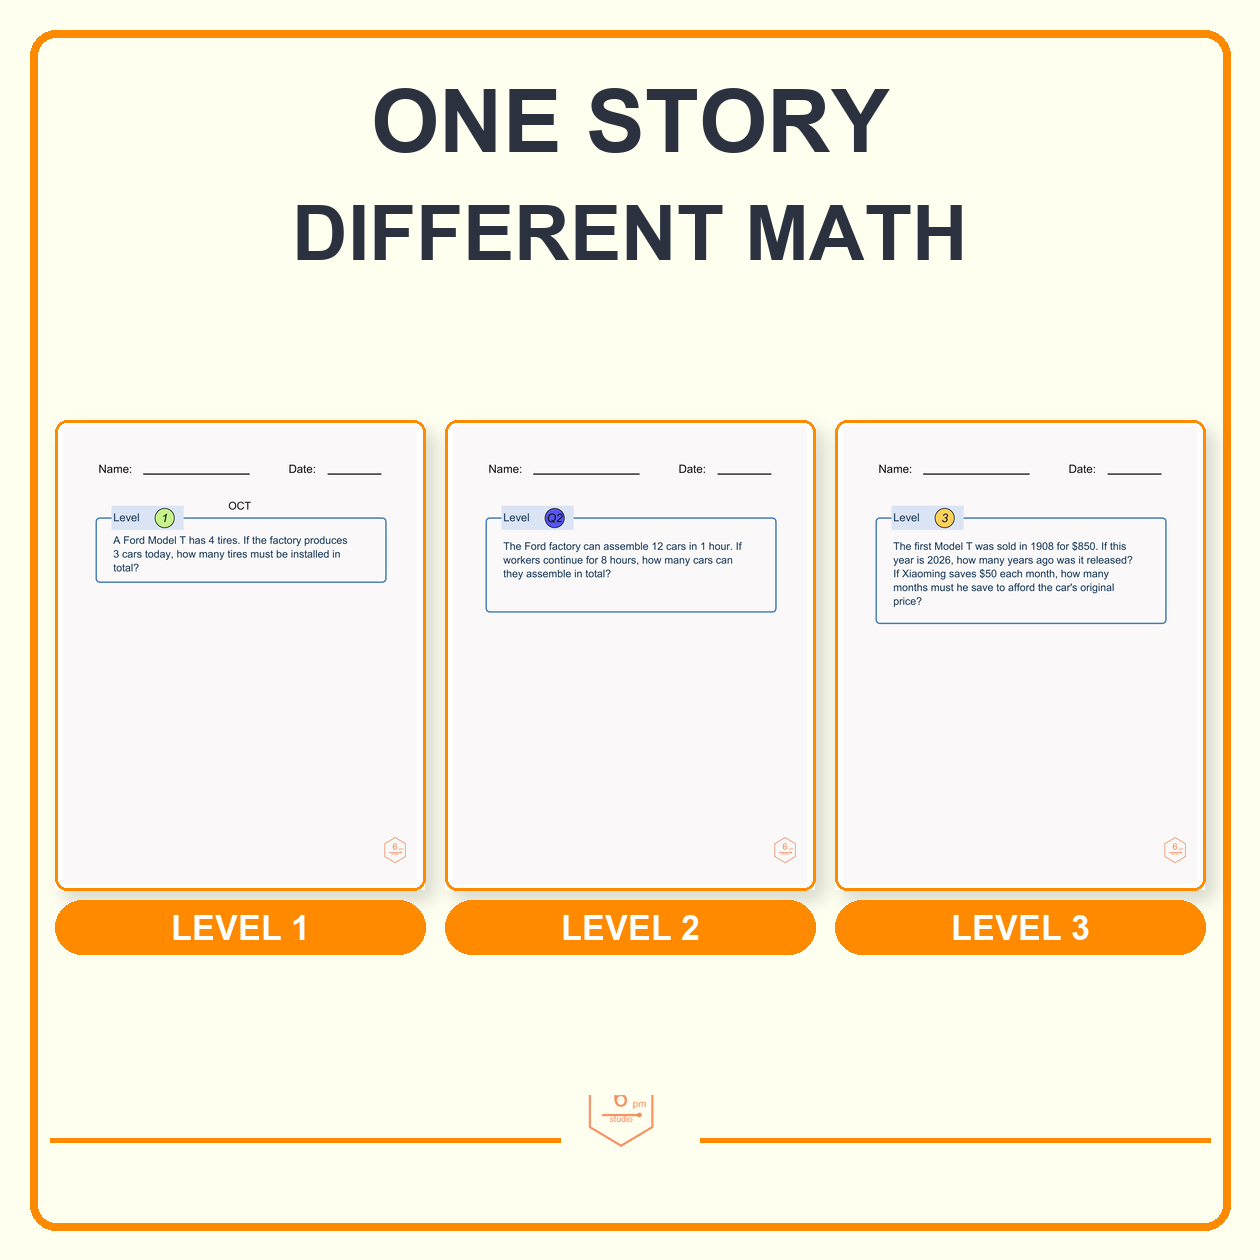
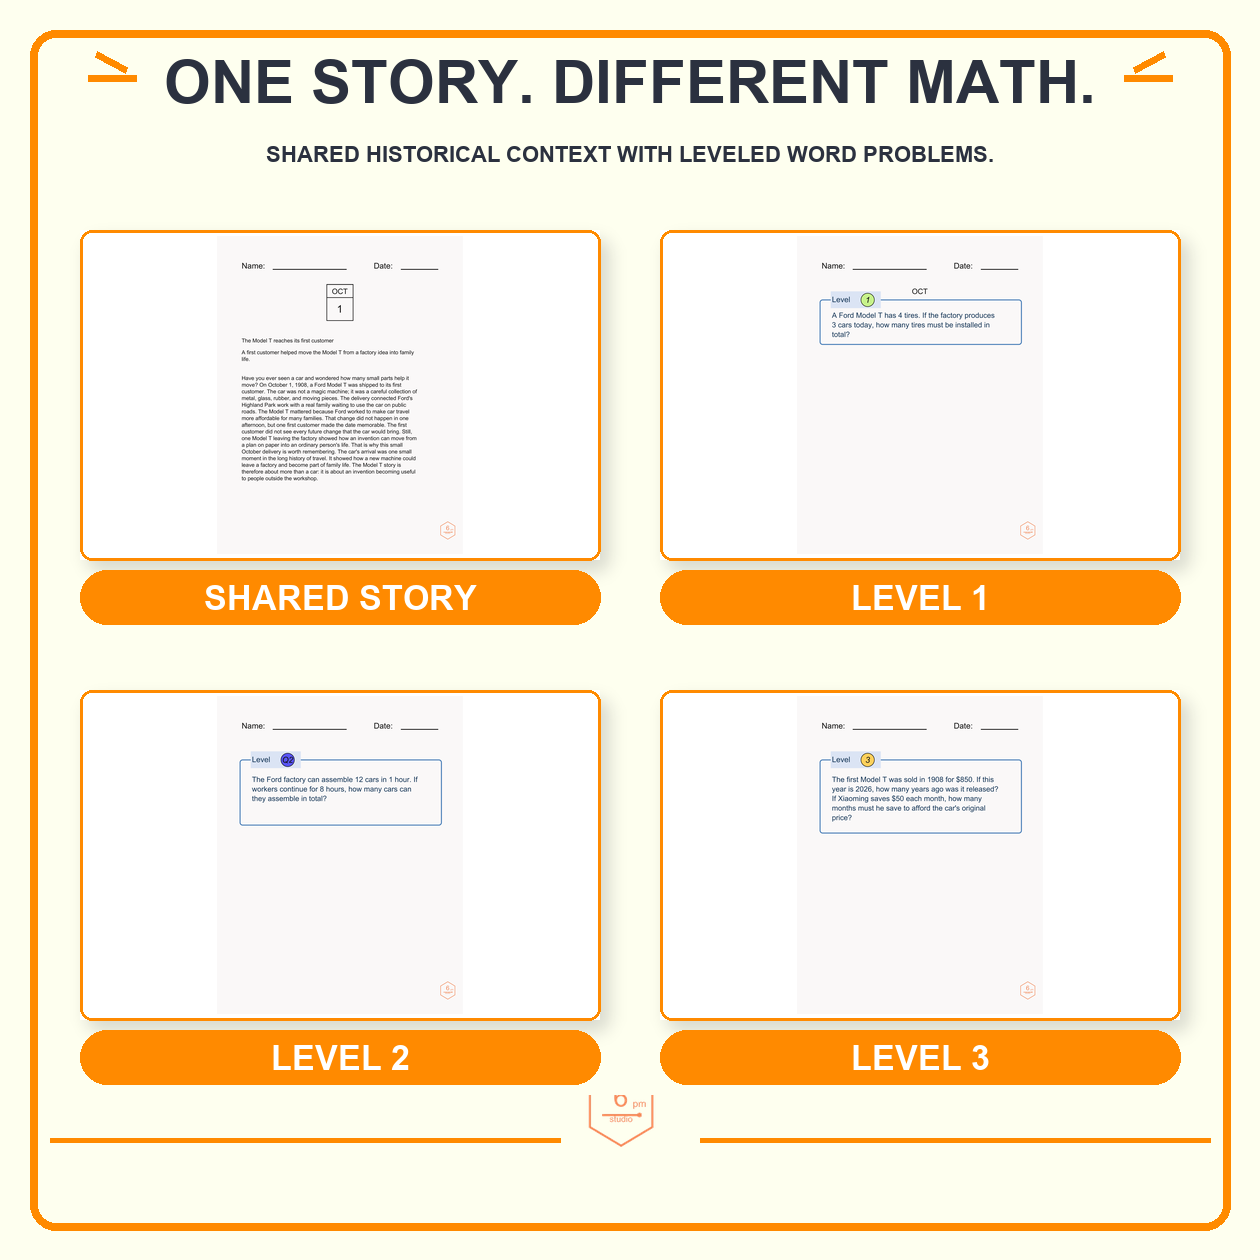
Align thumbnails with four approved copy concepts

diff --git a/scripts/generate_monthly_thumbnails.py b/scripts/generate_monthly_thumbnails.py
@@ -1,5 +1,5 @@
 #!/usr/bin/env python3
-"""Generate the five reusable, real-page monthly thumbnail compositions."""
+"""Generate the four requested, real-page monthly thumbnail compositions."""
 
 import argparse
 import hashlib
@@ -40,19 +40,6 @@ def base_canvas():
     canvas = Image.new("RGBA", (SIZE, SIZE), BG)
     ImageDraw.Draw(canvas).rounded_rectangle((30, 30, 1230, 1230), 26, outline=ORANGE, width=8)
     return canvas
-
-
-def doodle(draw, center=(630, 560), scale=1.0):
-    """Draw the three-lobed pumpkin used by the October production assets."""
-    cx, cy = center
-    w = int(7 * scale)
-    lobes = [(-68, -2, 72, 128), (-27, -38, 74, 136), (18, -2, 72, 128)]
-    for left, top, right, bottom in lobes:
-        draw.ellipse((cx + left * scale, cy + top * scale, cx + right * scale, cy + bottom * scale), outline=ORANGE, width=w)
-    draw.line((cx, cy + 110 * scale, cx - 4 * scale, cy + 166 * scale), fill=ORANGE, width=w)
-    draw.line((cx - 4 * scale, cy + 166 * scale, cx - 66 * scale, cy + 166 * scale), fill=ORANGE, width=w)
-    draw.line((cx + 2 * scale, cy - 38 * scale, cx + 20 * scale, cy - 93 * scale), fill=ORANGE, width=w)
-    draw.line((cx + 20 * scale, cy - 93 * scale, cx + 68 * scale, cy - 69 * scale), fill=ORANGE, width=w)
 
 
 def accented_title(draw, text, y, size, max_width=1080):
@@ -119,28 +106,12 @@ def logo(canvas, page):
 
 
 def compose_cover(month, out, source_page):
-    canvas, draw = base_canvas(), ImageDraw.Draw(base_canvas())
-    draw = ImageDraw.Draw(canvas)
-    centered(draw, month.upper(), 96, 86)
-    centered(draw, "MORNING WORK MATH", 218, 55)
-    centered(draw, "31 DAILY WORD PROBLEMS", 330, 35)
-    doodle(draw, (630, 565), 1.10)
-    centered(draw, "3 LEVELS", 905, 42)
-    footer(canvas)
-    if source_page:
-        logo(canvas, source_page)
-    canvas.convert("RGB").save(out, "PNG", optimize=True)
-
-
-def compose_overview(month, out, source_page):
     canvas = base_canvas()
     draw = ImageDraw.Draw(canvas)
-    centered(draw, month.upper(), 92, 86)
-    centered(draw, "MORNING WORK MATH", 218, 55)
-    centered(draw, "DAILY WORD PROBLEMS", 330, 35)
-    centered(draw, "HISTORICAL MINI-STORIES", 384, 35)
-    doodle(draw, (630, 600), 1.10)
-    centered(draw, "3 LEVELS", 920, 42)
+    draw.text((92, 126), month.upper(), fill=NAVY, font=font(92))
+    draw.text((92, 252), "MORNING\nWORK MATH", fill=NAVY, font=font(64), spacing=4)
+    draw.text((92, 470), "31 DAILY WORD\nPROBLEMS · 3 LEVELS", fill=NAVY, font=font(36), spacing=8)
+    card(canvas, source_page, (690, 142, 430, 690), "REAL WORKSHEET PREVIEW")
     footer(canvas)
     if source_page:
         logo(canvas, source_page)
@@ -150,39 +121,41 @@ def compose_overview(month, out, source_page):
 def compose_whats_included(pages, out):
     canvas = base_canvas()
     draw = ImageDraw.Draw(canvas)
-    accented_title(draw, "WHAT'S INCLUDED", 40, 82, 920)
-    for points in [((184, 42), (210, 62)), ((176, 78), (208, 78)), ((184, 114), (210, 94)), ((1076, 42), (1050, 62)), ((1084, 78), (1052, 78)), ((1076, 114), (1050, 94))]:
-        draw.line(points, fill=ORANGE, width=10)
-    for x, key, label in [(31, "story", "STORY"), (437, "level1", "LEVEL 1"), (843, "level2", "LEVEL 2")]:
-        card(canvas, pages[key], (x, 134, 380, 440), label)
-    for x, key, label in [(196, "level3", "LEVEL 3"), (646, "answer_key", "ANSWER KEY")]:
-        card(canvas, pages[key], (x, 632, 380, 380), label)
+    accented_title(draw, "ONE PACKET. THREE LEVELS.", 40, 62, 1120)
+    centered(draw, "LEVEL 1 · LEVEL 2 · LEVEL 3", 132, 28)
+    centered(draw, "SEPARATE ANSWER KEYS", 170, 28)
+    for x, key, label in [(31, "level1", "LEVEL 1"), (437, "level2", "LEVEL 2"), (843, "level3", "LEVEL 3")]:
+        card(canvas, pages[key], (x, 230, 380, 470), label)
+    card(canvas, pages["answer_key"], (440, 830, 380, 170), "SEPARATE ANSWER KEYS")
     footer(canvas)
-    logo(canvas, pages["story"])
+    logo(canvas, pages["level1"])
     canvas.convert("RGB").save(out, "PNG", optimize=True)
 
 
 def compose_different_math(pages, out):
     canvas = base_canvas()
     draw = ImageDraw.Draw(canvas)
-    centered(draw, "ONE STORY", 72, 88)
-    centered(draw, "DIFFERENT MATH", 190, 77)
-    card(canvas, pages["level1"], (55, 420, 370, 470), "LEVEL 1")
-    card(canvas, pages["level2"], (445, 420, 370, 470), "LEVEL 2")
-    card(canvas, pages["level3"], (835, 420, 370, 470), "LEVEL 3")
+    accented_title(draw, "ONE STORY. DIFFERENT MATH.", 48, 60, 1120)
+    centered(draw, "SHARED HISTORICAL CONTEXT WITH LEVELED WORD PROBLEMS.", 142, 22, 1100)
+    for box, key, label in [
+        ((80, 230, 520, 330), "story", "SHARED STORY"),
+        ((660, 230, 520, 330), "level1", "LEVEL 1"),
+        ((80, 690, 520, 330), "level2", "LEVEL 2"),
+        ((660, 690, 520, 330), "level3", "LEVEL 3"),
+    ]:
+        card(canvas, pages[key], box, label)
     footer(canvas)
-    logo(canvas, pages["level1"])
+    logo(canvas, pages["story"])
     canvas.convert("RGB").save(out, "PNG", optimize=True)
 
 
 def compose_daily_practice(pages, out):
     canvas = base_canvas()
     draw = ImageDraw.Draw(canvas)
-    accented_title(draw, "READY FOR DAILY PRACTICE", 55, 64, 1080)
-    centered(draw, "ONE PROBLEM A DAY", 190, 44)
+    accented_title(draw, "READY FOR DAILY PRACTICE", 55, 62, 1080)
+    centered(draw, "MORNING WORK · BELL RINGERS · HOMEWORK · HOMESCHOOL", 190, 24, 1130)
     card(canvas, pages["worksheet"], (280, 320, 700, 650), "DAILY WORD PROBLEM")
     footer(canvas)
-    centered(draw, "MORNING WORK  |  BELL RINGERS  |  HOMESCHOOL", 1048, 24, 1110)
     logo(canvas, pages["worksheet"])
     canvas.convert("RGB").save(out, "PNG", optimize=True)
 
@@ -199,11 +172,6 @@ def main():
         pdf = (Path.cwd() / pdf).resolve()
         if not pdf.exists():
             pdf = (manifest_path.parent / manifest["pdf"]["path"]).resolve()
-    doodle_path = Path(manifest["doodle"]["path"])
-    if not doodle_path.is_absolute():
-        doodle_path = (Path.cwd() / doodle_path).resolve()
-    if not doodle_path.exists():
-        raise FileNotFoundError(f"doodle asset does not exist: {doodle_path}")
     actual_pdf_sha256 = hashlib.sha256(pdf.read_bytes()).hexdigest()
     expected_pdf_sha256 = manifest["pdf"]["sha256"]
     if actual_pdf_sha256 != expected_pdf_sha256:
@@ -223,19 +191,19 @@ def main():
         daily = {key: render_page(page) for key, page in pages["daily_practice"]["source_pages"].items()}
         first = whats["story"]
         compose_cover(manifest["product"]["month"], args.output_dir / f"{prefix}-cover.png", first)
-        compose_overview(manifest["product"]["month"], args.output_dir / f"{prefix}-overview.png", first)
         compose_whats_included(whats, args.output_dir / f"{prefix}-whats-included.png")
         compose_different_math(different, args.output_dir / f"{prefix}-different-math.png")
         compose_daily_practice(daily, args.output_dir / f"{prefix}-daily-practice.png")
-    names = ["cover", "overview", "whats-included", "different-math", "daily-practice"]
+    names = ["cover", "whats-included", "different-math", "daily-practice"]
     labels = {
-        "whats_included": ["WHAT'S INCLUDED", "STORY", "LEVEL 1", "LEVEL 2", "LEVEL 3", "ANSWER KEY"],
-        "different_math": ["ONE STORY", "DIFFERENT MATH", "LEVEL 1", "LEVEL 2", "LEVEL 3"],
-        "daily_practice": ["READY FOR DAILY PRACTICE", "ONE PROBLEM A DAY"],
+        "cover": ["October Morning Work Math", "31 Daily Word Problems · 3 Levels", "REAL WORKSHEET PREVIEW"],
+        "whats_included": ["One Packet. Three Levels.", "Level 1 · Level 2 · Level 3", "Separate Answer Keys"],
+        "different_math": ["One Story. Different Math.", "Shared historical context with leveled word problems.", "SHARED STORY", "LEVEL 1", "LEVEL 2", "LEVEL 3"],
+        "daily_practice": ["Ready for Daily Practice", "Morning Work · Bell Ringers · Homework · Homeschool", "DAILY WORD PROBLEM"],
     }
     checksums = {name: hashlib.sha256((args.output_dir / f"{prefix}-{name}.png").read_bytes()).hexdigest() for name in names}
     report = {
-        "design": "october-production-v1",
+        "design": "october-production-v2",
         "style": {
             "canvas": [SIZE, SIZE],
             "background": BG,
@@ -247,9 +215,14 @@ def main():
         "templates": names,
         "labels": labels,
         "checksums": checksums,
-        "doodle": manifest["doodle"]["path"],
         "pdf": manifest["pdf"]["path"],
         "pdf_sha256": actual_pdf_sha256,
+        "copyConcepts": {
+            "cover": {"headline": "October Morning Work Math", "supportingText": "31 Daily Word Problems · 3 Levels"},
+            "whats_included": {"headline": "One Packet. Three Levels.", "supportingText": ["Level 1 · Level 2 · Level 3", "Separate Answer Keys"]},
+            "different_math": {"headline": "One Story. Different Math.", "supportingText": "Shared historical context with leveled word problems."},
+            "daily_practice": {"headline": "Ready for Daily Practice", "supportingText": "Morning Work · Bell Ringers · Homework · Homeschool"},
+        },
     }
     (args.output_dir / "monthly-thumbnail-report.json").write_text(json.dumps(report, indent=2) + "\n", encoding="utf-8")
 

diff --git a/docs/superpowers/specs/2026-09-20-monthly-thumbnail-system-design.md b/docs/superpowers/specs/2026-09-20-monthly-thumbnail-system-design.md
@@ -7,30 +7,29 @@
 ## Goal
 
 Create one reusable visual system for monthly worksheet products so that each
-month can produce the same five cover/thumbnail types while changing only the
-month-specific content, real PDF source pages, and representative hand-drawn
-doodle.
+month can produce the same four cover/thumbnail types while changing only the
+month-specific content and real PDF source pages.
 
 ## Evidence and design constraints
 
 This design is based on the approved reference outputs and corrections in the
 task history:
 
-- The five approved creative roles are Cover, Monthly Overview, What's
-  Included, One Story Different Math, and Ready for Daily Practice.
+- The four approved creative roles are Cover, What's Included, One Story
+  Different Math, and Ready for Daily Practice.
 - The user rejected generated or fake worksheet screenshots. Every worksheet
   visual must be rendered from the month's final PDF.
-- The user approved a consistent visual system across months, with a different
-  hand-drawn doodle representing each month.
+- The user approved a consistent visual system across months, with real PDF
+  page previews providing product proof instead of synthetic worksheet art.
 - The approved visual language uses a warm cream background, deep navy type,
-  orange framing and labels, simple line doodles, generous whitespace, and the
+  orange framing and labels, simple title rays, generous whitespace, and the
   6pm Studio logo.
 - October's verified packet has 127 pages: 124 daily worksheet pages followed
   by 3 answer-key pages.
 
 ## Fixed visual system
 
-The following properties are shared by all five thumbnail types:
+The following properties are shared by all four thumbnail types:
 
 - Canvas: square 1260 × 1260 PNG.
 - Background: `#FEFFEF`.
@@ -40,49 +39,40 @@ The following properties are shared by all five thumbnail types:
 - Typography: bold, condensed-looking uppercase display treatment for the
   main headline; compact uppercase labels for page types.
 - Logo: the approved 6pm Studio logo, centered in the footer treatment.
-- Decoration: simple orange line doodles only; no unrelated illustrations,
-  stock imagery, or AI-generated worksheet content.
+- Decoration: simple orange title rays only; no unrelated illustrations, stock
+  imagery, or AI-generated worksheet content.
 - Product proof: every worksheet card is a real rendered page from the
   month's final PDF.
 
-## Five fixed templates
+## Four fixed templates
 
 ### 1. Cover
 
-Communicates the month and product identity. It uses the month name, product
-title, short supporting copy, one centered month doodle, and the shared footer.
-It does not need to show worksheet screenshots.
+Communicates the month and product identity. It uses the exact headline
+`October Morning Work Math`, the supporting copy `31 Daily Word Problems · 3
+Levels`, and a clean worksheet-page preview rendered from the final PDF.
 
-### 2. Monthly Overview
+### 2. What's Included
 
-Communicates the monthly structure and routine. It uses the month name,
-calendar or day-count language, the centered month doodle, and concise
-benefit copy. It may use simple symbols, but not invented worksheet pages.
+Uses the approved copy and real-page composition:
 
-### 3. What's Included
-
-Uses the approved five-card composition:
-
-- top row: Reading Passage, Level 1, Level 2;
-- bottom row: Level 3, Answer Key;
-- orange capsule labels under each card;
-- `WHAT'S INCLUDED` headline and simple orange side doodles.
+- headline: `One Packet. Three Levels.`;
+- supporting text: `Level 1 · Level 2 · Level 3` and `Separate Answer Keys`;
+- real Level 1, Level 2, Level 3, and Answer Key previews.
 
 The five cards are sourced from explicit PDF page numbers in the monthly
 manifest.
 
-### 4. One Story, Different Math
+### 3. One Story, Different Math
 
-Shows the same story context connected to Level 1, Level 2, and Level 3. The
-three cards must be real pages from the same monthly PDF and must be labeled
-clearly. The central month doodle may connect the cards visually, but must not
-obscure worksheet text.
+Uses the exact headline `One Story. Different Math.` and supporting text
+`Shared historical context with leveled word problems.` It shows the shared
+story page alongside Level 1, Level 2, and Level 3 pages from the same PDF.
 
-### 5. Ready for Daily Practice
+### 4. Ready for Daily Practice
 
-Features one real worksheet page at a readable scale, with a short routine or
-use-case headline. The page must remain recognizable as a printable worksheet,
-while the month doodle and shared frame provide product identity.
+Features one real worksheet page at a readable scale and the exact supporting
+text `Morning Work · Bell Ringers · Homework · Homeschool`.
 
 ## Monthly manifest interface
 
@@ -98,17 +88,12 @@ Each month has one manifest with this conceptual shape:
     "sha256": "<sha256-of-final-pdf>",
     "page_count": 124
   },
-  "doodle": {
-    "name": "autumn-leaf",
-    "path": "assets/doodles/months/november-autumn-leaf.svg"
-  },
   "templates": {
     "cover": {"output": "output/thumbnails/november-v1.0-cover.png"},
-    "overview": {"output": "output/thumbnails/november-v1.0-overview.png"},
     "whats_included": {
       "output": "output/thumbnails/november-v1.0-whats-included.png",
       "source_pages": {
-        "reading_passage": 1,
+        "story": 1,
         "level_1": 2,
         "level_2": 3,
         "level_3": 4,
@@ -117,7 +102,7 @@ Each month has one manifest with this conceptual shape:
     },
     "different_math": {
       "output": "output/thumbnails/november-v1.0-different-math.png",
-      "source_pages": {"level_1": 2, "level_2": 3, "level_3": 4}
+      "source_pages": {"story": 1, "level_1": 2, "level_2": 3, "level_3": 4}
     },
     "daily_practice": {
       "output": "output/thumbnails/november-v1.0-daily-practice.png",
@@ -140,9 +125,9 @@ PDF checksum and page-count validation
         ↓
 render selected source pages
         ↓
-load month manifest and doodle
+load month manifest and real source pages
         ↓
-compose five fixed thumbnail templates
+compose four fixed thumbnail templates
         ↓
 visual QA and manifest update
         ↓
@@ -160,10 +145,9 @@ Every generated thumbnail must verify:
 - source page numbers match the monthly manifest;
 - no worksheet content was synthetically generated or rewritten;
 - page labels match the page type shown;
-- the month doodle is the correct asset for the month;
 - the fixed palette and frame are preserved;
 - text stays inside the canvas and remains legible at marketplace size;
-- cards, labels, doodles, and logo do not overlap incorrectly;
+- cards, labels, and logo do not overlap incorrectly;
 - output dimensions are exactly 1260 × 1260;
 - the output checksum is recorded in the release manifest.
 
@@ -171,10 +155,10 @@ Every generated thumbnail must verify:
 
 The system is ready for reuse when:
 
-1. October can produce all five thumbnail types from its 127-page PDF.
+1. October can produce all four requested thumbnail types from its 127-page PDF.
 2. No template reads worksheet content from a hand-authored mockup.
-3. A new month can be generated by supplying a new PDF, manifest, and doodle
-   asset without changing the shared layout code.
+3. A new month can be generated by supplying a new PDF and manifest without
+   changing the shared layout code.
 4. A changed PDF checksum invalidates the previous derived-asset records.
 5. QA reports identify the exact source PDF, page numbers, output files, and
    pass/fail state.
